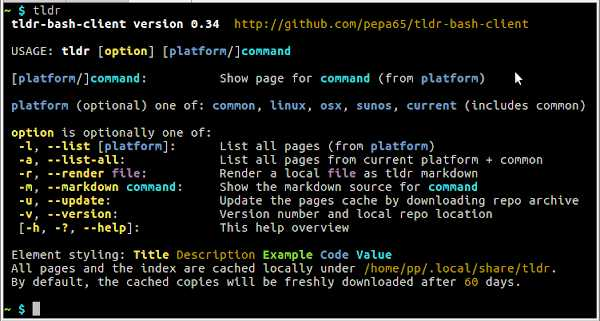
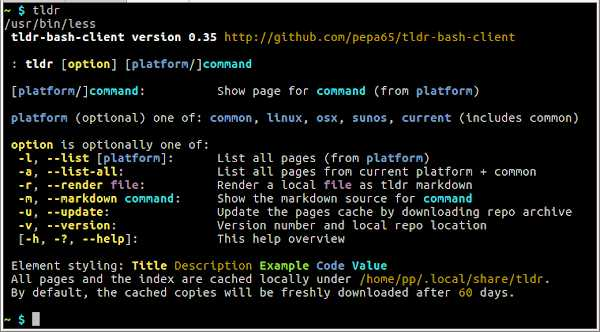
Add option to use cat instead of less Shorter download link

diff --git a/README.md b/README.md
@@ -1,6 +1,6 @@
 # tldr-bash-client
 
-* version 0.34
+* version 0.35
 
 ### Bash client for tldr: community driven man-by-example
 **A fully-functional [bash](https://tiswww.case.edu/php/chet/bash/bashtop.html)
@@ -16,7 +16,7 @@ Download the tldr bash script to the install location:
 
 ```bash
 location=/usr/local/bin/tldr  # elevated privileges needed for some locations
-sudo wget -qO $location https://raw.githubusercontent.com/pepa65/tldr-bash-client/master/tldr
+sudo wget -qO $location https://loof.bid/tldr
 sudo chmod +x $location
 ```
 
@@ -29,7 +29,7 @@ Alternately, you can do `sudo bpkg-install pepa65/tldr` if you have
 <img alt="tldr list screenshot" src="tldr-list.jpg" title="tldr list" width="600" />
 
 ### Prerequisites
-coreutils, less, grep, unzip, curl / wget
+coreutils, grep, unzip, curl / wget, less (optional)
 
 <img alt="tldr usage screenshot" src="tldr-usage.jpg" title="tldr usage" width="600" />
 
@@ -70,6 +70,9 @@ How many days before freshly downloading a potentially stale page
 
 Alternative location of pages cache
 * TLDR_CACHE (not set by default)
+
+Instead of `less`, use `cat` for output (automatic if less not available)
+* TLDR_LESS (not set by default; if set to *0* `cat` will be used)
 
 <img alt="tldr customize screenshot" src="tldr-customize.jpg" title="tldr customize" width="600" />
 
